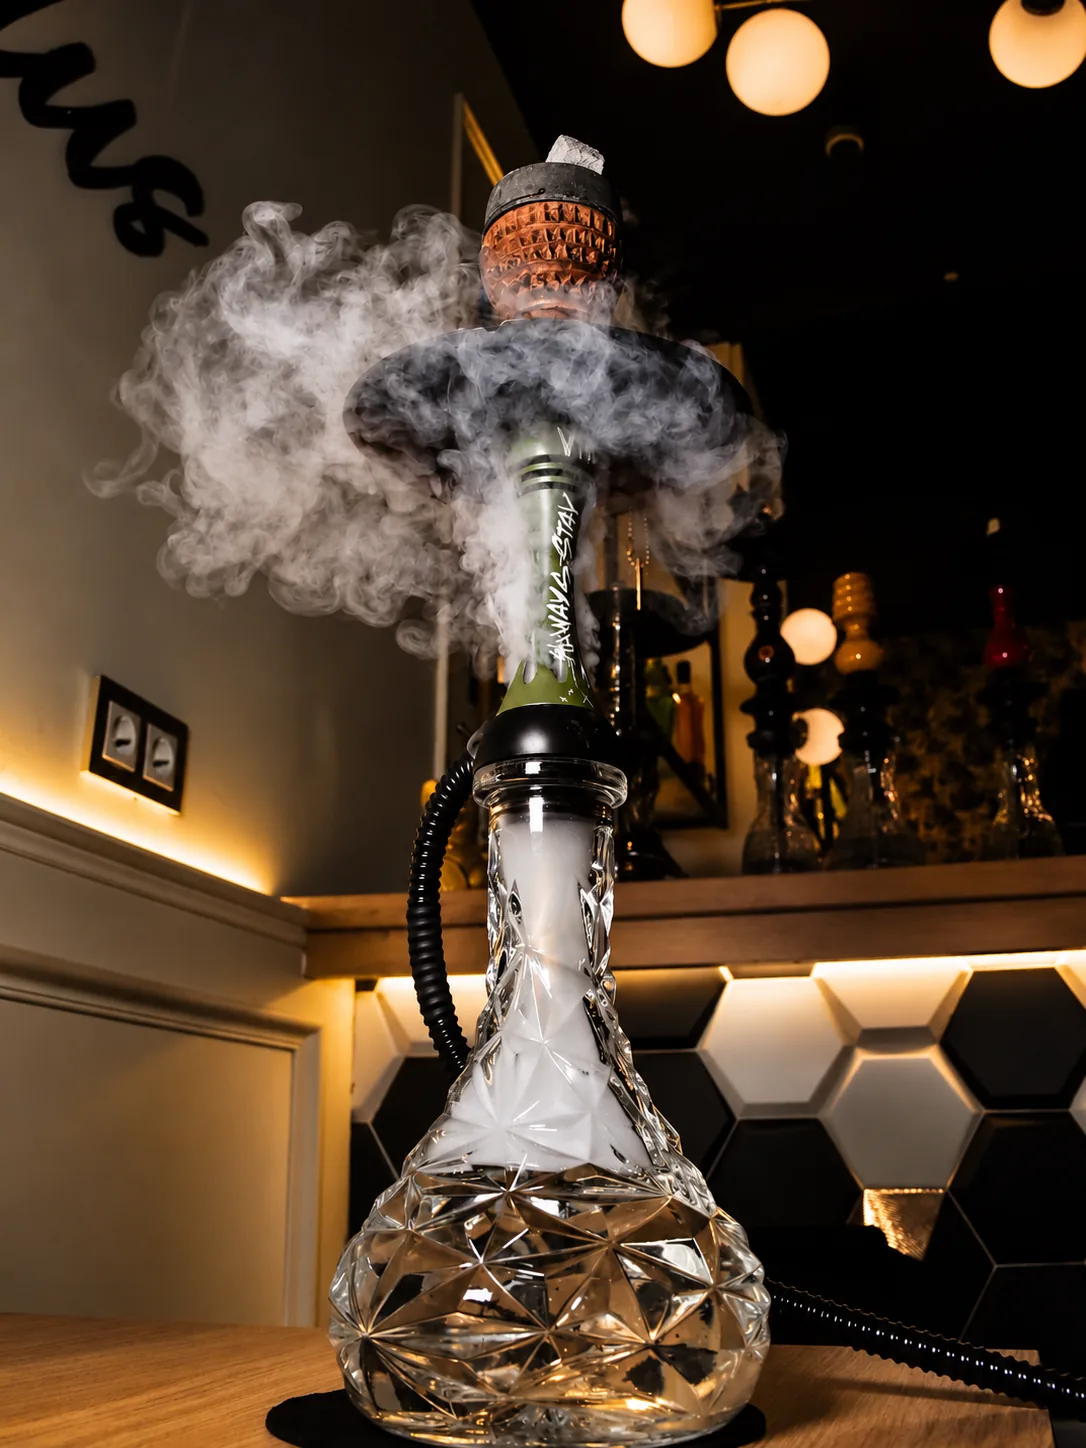
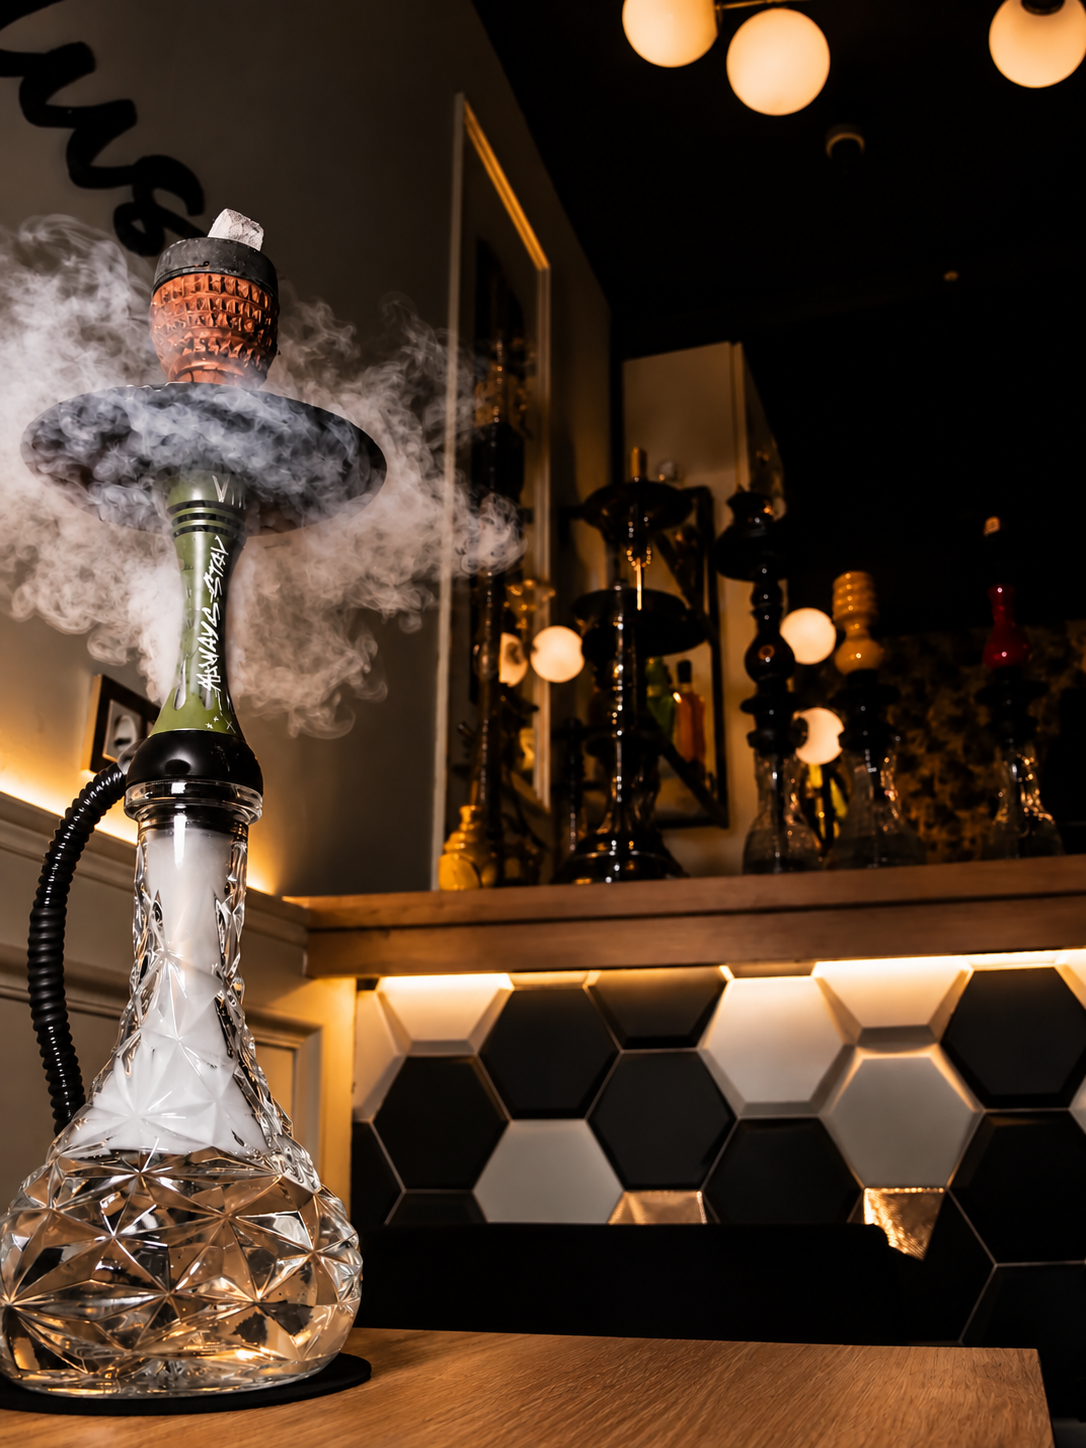
Refine menu imagery and copy and clean up unused reveal code

diff --git a/src/app/globals.css b/src/app/globals.css
@@ -232,51 +232,6 @@ a:focus-visible {
   position: relative;
 }
 
-.mundus-menu-reveal {
-  isolation: isolate;
-}
-
-.mundus-menu-reveal__lit {
-  opacity: 0;
-  pointer-events: none;
-  transition: opacity 1.25s ease-out;
-}
-
-.mundus-menu-reveal--drinks .mundus-menu-reveal__lit {
-  -webkit-mask-image: radial-gradient(ellipse 32% 38% at 47% 64%, #000 55%, transparent 100%);
-  mask-image: radial-gradient(ellipse 32% 38% at 47% 64%, #000 55%, transparent 100%);
-}
-
-.mundus-menu-reveal--shisha .mundus-menu-reveal__lit {
-  -webkit-mask-image: radial-gradient(ellipse 28% 22% at 50% 17%, #000 55%, transparent 100%);
-  mask-image: radial-gradient(ellipse 28% 22% at 50% 17%, #000 55%, transparent 100%);
-}
-
-.mundus-menu-reveal__glow {
-  position: absolute;
-  inset: 0;
-  opacity: 0;
-  pointer-events: none;
-  transition: opacity 1.5s ease-out;
-}
-
-.mundus-menu-reveal--drinks .mundus-menu-reveal__glow {
-  background: radial-gradient(ellipse 23% 28% at 47% 64%, rgba(228, 173, 85, 0.16), transparent 100%);
-}
-
-.mundus-menu-reveal--shisha .mundus-menu-reveal__glow {
-  background: radial-gradient(ellipse 22% 14% at 50% 17%, rgba(228, 173, 85, 0.25), transparent 100%);
-}
-
-.mundus-menu-reveal[data-lit="true"] .mundus-menu-reveal__lit,
-.mundus-menu-reveal[data-lit="true"] .mundus-menu-reveal__glow {
-  opacity: 1;
-}
-
-.mundus-menu-reveal[data-lit="true"] .mundus-menu-reveal__glow {
-  animation: ember-breathe 6s ease-in-out 1.5s infinite;
-}
-
 .mundus-menu-card__details {
   background: var(--color-espresso);
   border: 1px solid var(--border-subtle);
@@ -585,9 +540,36 @@ a:focus-visible {
 }
 
 .night-atlas__panel {
-  background: linear-gradient(140deg, #302115, #211913 58%, #130e0a);
+  background: #130e0a;
   border-top: 2px solid var(--color-gold);
+  isolation: isolate;
+  position: relative;
   scroll-margin-top: 6.5rem;
+}
+
+.night-atlas__panel-visual {
+  height: 26rem;
+  inset: 0 0 auto;
+  overflow: hidden;
+  pointer-events: none;
+  position: absolute;
+  z-index: -1;
+}
+
+.night-atlas__panel-image {
+  object-fit: cover;
+  object-position: center 35%;
+}
+
+.night-atlas__panel[data-chapter="ritual"] .night-atlas__panel-image {
+  object-position: center 22%;
+}
+
+.night-atlas__panel-visual::after {
+  background: linear-gradient(180deg, rgba(19, 14, 10, 0.12) 0%, rgba(19, 14, 10, 0.16) 50%, rgba(19, 14, 10, 0.45) 80%, #130e0a 100%);
+  content: "";
+  inset: 0;
+  position: absolute;
 }
 
 .night-atlas__panel-heading {
@@ -597,6 +579,7 @@ a:focus-visible {
   gap: 0.6rem 1.5rem;
   grid-template-columns: minmax(0, 1fr) auto;
   padding-bottom: 1.5rem;
+  min-height: 10rem;
 }
 
 .night-atlas__panel-heading h2 {
@@ -749,14 +732,12 @@ a:focus-visible {
 }
 
 @media (prefers-reduced-motion: reduce) {
-  .mundus-ember-scene__lit,
-  .mundus-menu-reveal__lit {
+  .mundus-ember-scene__lit {
     opacity: 1;
     transition: none;
   }
 
-  .mundus-ember-scene__glow,
-  .mundus-menu-reveal__glow {
+  .mundus-ember-scene__glow {
     display: none;
     animation: none;
   }

diff --git a/src/components/menu-browser.tsx b/src/components/menu-browser.tsx
@@ -130,8 +130,8 @@ function MenuGroup({
         </p>
       )}
       <ul className="mt-5">
-        {category.items.map((item) => (
-          <MenuItemRow currency={currency} item={item} key={item.name} locale={locale} priceLabels={priceLabels} />
+        {category.items.map((item, index) => (
+          <MenuItemRow currency={currency} item={item} key={`${item.name}-${index}`} locale={locale} priceLabels={priceLabels} />
         ))}
       </ul>
     </article>
@@ -157,11 +157,9 @@ function MobileMenuGroup({
       open={defaultOpen}
     >
       <summary className="flex cursor-pointer list-none items-center justify-between gap-4 p-6 marker:content-none">
-        <div>
-          <h3 className="font-display text-2xl font-medium tracking-[-0.03em] text-cream">
-            {category.name}
-          </h3>
-        </div>
+        <h3 className="font-display text-2xl font-medium tracking-[-0.03em] text-cream">
+          {category.name}
+        </h3>
         <span
           aria-hidden="true"
           className="text-2xl leading-none text-honey transition-transform duration-200 group-open:rotate-45"
@@ -179,8 +177,8 @@ function MobileMenuGroup({
           </p>
         )}
         <ul className="mt-5">
-          {category.items.map((item) => (
-            <MenuItemRow currency={currency} item={item} key={item.name} locale={locale} priceLabels={priceLabels} />
+          {category.items.map((item, index) => (
+            <MenuItemRow currency={currency} item={item} key={`${item.name}-${index}`} locale={locale} priceLabels={priceLabels} />
           ))}
         </ul>
       </div>
@@ -210,6 +208,7 @@ export function MenuBrowser({
   const activeCategory =
     categories.find((category) => category.name === activeCategoryName) ?? categories[0];
   const activeChapter = chapterForCategory(activeCategory.name);
+  const panelImage = chapters.find((chapter) => chapter.id === activeChapter)?.image;
   const singleGroup = activeCategory.items
     ? { items: activeCategory.items, name: activeCategory.name }
     : null;
@@ -416,7 +415,20 @@ export function MenuBrowser({
           id="menu-panel"
           ref={panelRef}
           role="region"
+          data-chapter={activeChapter ?? undefined}
         >
+          {panelImage && (
+            <div aria-hidden="true" className="night-atlas__panel-visual">
+              <Image
+                alt=""
+                className="night-atlas__panel-image"
+                fill
+                placeholder="blur"
+                sizes="(min-width: 1280px) 1152px, 100vw"
+                src={panelImage}
+              />
+            </div>
+          )}
           <header className="night-atlas__panel-heading">
             <span className="night-atlas__panel-kicker">{activeChapter ? messages.chapters[activeChapter].title : messages.categoryList}</span>
             <div className="flex items-center gap-2">

diff --git a/src/components/menu-atlas.tsx b/src/components/menu-atlas.tsx
@@ -2,14 +2,20 @@ import Image from "next/image";
 import Link from "next/link";
 import { getMessages, type Locale } from "../i18n";
 import foodImage from "../../public/images/mundus-menu-food.webp";
-import { MenuImageReveal } from "./menu-image-reveal";
+import shishaImage from "../../public/images/mundus-menu-shisha.webp";
+import drinksImage from "../../public/images/mundus-menu-drinks.webp";
+
+const menuCards = [
+  { image: shishaImage, chapter: "ritual" },
+  { image: drinksImage, chapter: "bar" },
+  { image: foodImage, chapter: "table" },
+] as const;
 
 export function MenuAtlas({ locale }: { locale: Locale }) {
   const messages = getMessages(locale).menuAtlas;
   const menuFeatures = messages.features.map((feature, index) => ({
     ...feature,
-    image: [null, null, foodImage][index],
-    chapter: (["ritual", "bar", "table"] as const)[index],
+    ...menuCards[index],
   }));
 
   return (
@@ -43,18 +49,14 @@ export function MenuAtlas({ locale }: { locale: Locale }) {
                 href={`/${locale}/menu?chapter=${feature.chapter}`}
               >
                 <span className="mundus-menu-card__image">
-                  {feature.image ? (
-                    <Image
-                      alt=""
-                      className="object-cover"
-                      fill
-                      placeholder="blur"
-                      sizes="(min-width: 768px) 30vw, 100vw"
-                      src={feature.image}
-                    />
-                  ) : (
-                    <MenuImageReveal variant={feature.chapter === "ritual" ? "shisha" : "drinks"} />
-                  )}
+                  <Image
+                    alt=""
+                    className="object-cover"
+                    fill
+                    placeholder="blur"
+                    sizes="(min-width: 768px) 30vw, 100vw"
+                    src={feature.image}
+                  />
                   <span className="absolute inset-0 bg-gradient-to-t from-onyx/90 via-onyx/20 to-onyx/30" />
                   <span className="relative z-10 mt-auto p-7 sm:p-8">
                     <span className="block font-display text-4xl font-[200] tracking-[-0.05em] text-cream">

diff --git a/src/i18n/index.ts b/src/i18n/index.ts
@@ -168,7 +168,7 @@ const messages: Record<Locale, Messages> = {
       indexHeading: "Ve directo a tu favorito",
       otherCategories: "Otras categorías",
       recommendation: {
-        body: "Pregunta al equipo de Mundus por una recomendación de shisha.",
+        body: "Con más de 200 sabores de shisha para elegir, pregunta al equipo de Mundus y te ayudaremos a encontrar tu mezcla ideal.",
         title: "¿No sabes por dónde empezar?",
       },
       shot: "CHUPITO",
@@ -322,7 +322,7 @@ const messages: Record<Locale, Messages> = {
       indexHeading: "Go straight to your favourite",
       otherCategories: "Other categories",
       recommendation: {
-        body: "Ask the Mundus team for a shisha recommendation.",
+        body: "With over 200 shisha flavours to choose from, ask the Mundus team to help you find your ideal mix.",
         title: "Not sure where to start?",
       },
       shot: "SHOT",

diff --git a/src/components/locale-switcher.tsx b/src/components/locale-switcher.tsx
@@ -1,5 +1,5 @@
 import Link from "next/link";
-import type { Locale } from "../i18n";
+import { locales, type Locale } from "../i18n";
 
 export function LocaleSwitcher({
   label,
@@ -12,7 +12,7 @@ export function LocaleSwitcher({
 }) {
   return (
     <nav aria-label={label} className="flex items-center gap-2 text-xs font-bold tracking-[0.12em]">
-      {(["es", "en"] as const).map((candidate) => {
+      {locales.map((candidate) => {
         const active = locale === candidate;
 
         return (

diff --git a/src/data/mundus-menu.ts b/src/data/mundus-menu.ts
@@ -184,7 +184,12 @@ function menuFromSheetRows(rows: MenuSheetRow[]): MenuData {
       );
 
       if (subcategories.length > 0) {
-        return { name: category.name, subcategories };
+        return {
+          name: category.name,
+          subcategories: category.items.length > 0
+            ? [{ name: category.name, items: category.items }, ...subcategories]
+            : subcategories,
+        };
       }
 
       return category.items.length > 0

diff --git a/PROJECT_CHECKLIST.md b/PROJECT_CHECKLIST.md
@@ -3,7 +3,7 @@
 ## Working agreement
 
 - Work on one unchecked milestone at a time.
-- Verify desktop and mobile behavior, build, lint, and typecheck before review.
+- The user performs manual desktop/mobile verification. Run build, lint, and typecheck only when requested.
 - Mark a milestone complete only after user approval.
 - Treat the supplied mockup as the component and layout reference; use real assets and verified business context only.
 
